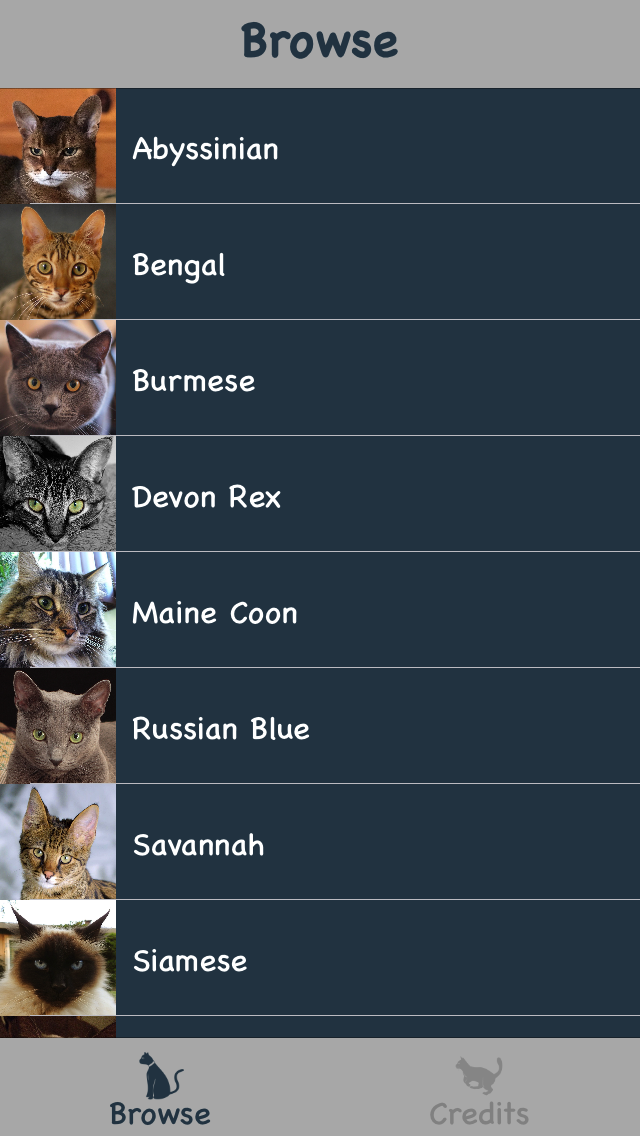
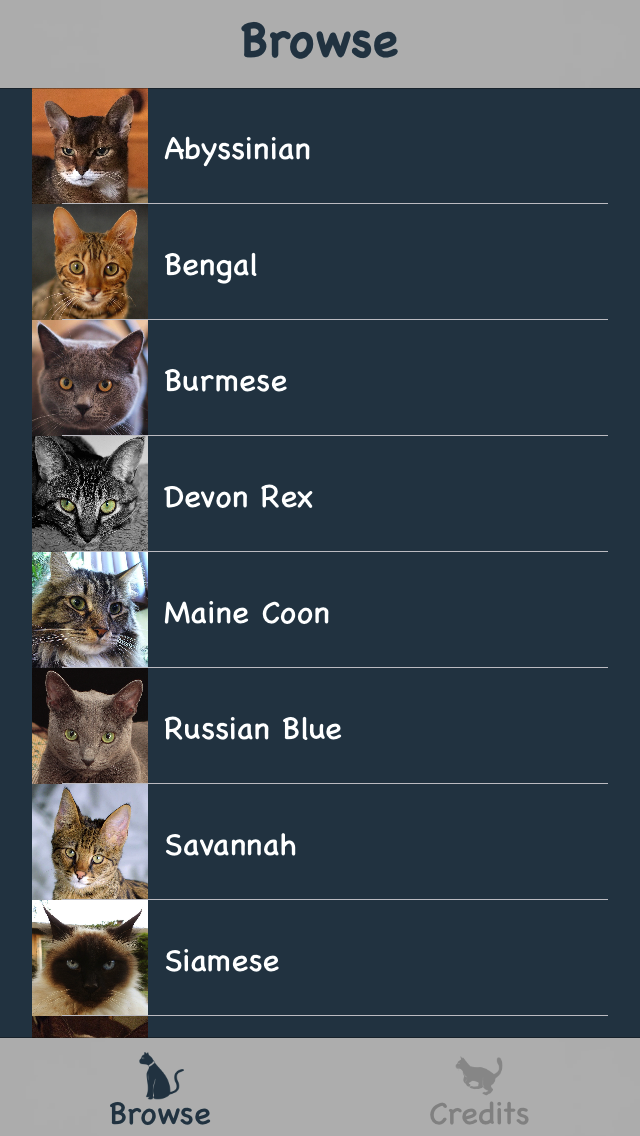
continue tutorial

Changed region(s): [[0.0, 0.0616, 0.5312, 0.9243], [0.4062, 0.3081, 0.4375, 0.3697]]

diff --git a/README.md b/README.md
@@ -28,7 +28,7 @@ Proponents of PL cite, _inter alia_, the following disadvantages of IB:
 
 ![Warnings](images/warnings.jpg "Warnings Caused by XIB-Format Change")
 
-* Because the IB file format is not backwards-compatible, old storyboards and XIBs cannot even be opened in newer versions of Xcode, a situation decried [here](http://www.lapcatsoftware.com/articles/working-without-a-nib-part-11.html). UIs created in IB are, in that sense, ticking time-bombs. As Swift evolves, old PL code may not compile, but it can always be opened in Xcode and grokked by the developer.
+* Because the IB file format is not backwards-compatible, old storyboards and XIBs cannot even be opened in newer versions of Xcode, a situation described [here](http://www.lapcatsoftware.com/articles/working-without-a-nib-part-11.html). UIs created in IB are, in that sense, ticking time-bombs. As Swift evolves, old PL code may not compile, but it can always be opened in Xcode and grokked by the developer.
 * IB hides implementation details from the iOS-development-learner. For example, an IB learner learning about tab bars might learn to click a view controller in the storyboard and click Editor -> Embed In -> Tab Bar Controller. The learner might not realize that a `UITabBarController` gets instantiated at runtime. A PL learner learning about tab bars can't avoid instantiating `UITabBarController` explicitly. The PL approach therefore fosters deeper understanding of UIKit.
 * By requiring the developer to set, by hand, the value of every color, font, padding, and constraint constant, the IB approach
 violates the [DRY](http://deviq.com/don-t-repeat-yourself/) principle. Global changes to colors, fonts, paddings, and constraint constants are tedious and error-prone. With the PL approach, these values are set once in code and are easy to change globally.
@@ -236,13 +236,14 @@ class BreedBrowseView: UIView {
   // 3
   override init(frame: CGRect) {
     super.init(frame: frame)
+    backgroundColor = Colors.blackish
     // 4
     addSubview(table)
     // 5
-    table.topAnchor.constraint(equalTo: safeAreaLayoutGuide.topAnchor).isActive = true
-    table.leadingAnchor.constraint(equalTo: leadingAnchor).isActive = true
-    table.trailingAnchor.constraint(equalTo: trailingAnchor).isActive = true
-    table.bottomAnchor.constraint(equalTo: safeAreaLayoutGuide.bottomAnchor).isActive = true
+    table.topAnchor.constraint(equalTo: safeAreaLayoutGuide.topAnchor).activate()
+    table.leadingAnchor.constraint(equalTo: layoutMarginsGuide.leadingAnchor).activate()
+    table.trailingAnchor.constraint(equalTo: layoutMarginsGuide.trailingAnchor).activate()
+    table.bottomAnchor.constraint(equalTo: safeAreaLayoutGuide.bottomAnchor).activate()
   }
 
   // 6
@@ -284,7 +285,7 @@ All `UIView`s, including the containing view, have top, bottom, leading, trailin
 
 The containing view's anchors, for example `.leadingAnchor` and `.centerYAnchor`, can be accessed directly. Views have two additional properties, [layoutMarginsGuide](https://developer.apple.com/documentation/uikit/uiview/1622651-layoutmarginsguide) and [safeAreaLayoutGuide](https://developer.apple.com/documentation/uikit/uiview/2891102-safearealayoutguide). `layoutMarginsGuide` is a "layout guide representing the view’s margins". Because content can be inside the margins but hidden behind a `UITabBar` or `UINavigationBar`, this property does not entirely encompass the concept of the space where user-visible controls should go. Pinning the top- and bottom-most controls to the `safeAreaLayoutGuide`, which does not include the hidden area, prevents controls from being hidden by `UINavigationBar`s or `UITabBar`s.
 
-In the code you pasted, the goal is for the content, the cat table, to extend to the left and right edges of the screen, so the code uses `leadingAnchor` and `trailingAnchor` rather than `layoutMarginsGuide.leadingAnchor` and `layoutMarginsGuide.trailingAnchor`. The cat table should _not_ be hidden behind a `UINavigationBar` or `UITabBar`, however, so the code pins the top and bottom of the cat table to `safeAreaLayoutGuide.topAnchor` and `safeAreaLayoutGuide.bottomAnchor`, respectively.
+In the code you pasted, the goal is for the content, the cat table, to extend to the left and right margins, so the code uses `layoutMarginsGuide.leadingAnchor` and `layoutMarginsGuide.trailingAnchor`. The cat table should _not_ be hidden behind a `UINavigationBar` or `UITabBar`, however, so the code pins the top and bottom of the cat table to `safeAreaLayoutGuide.topAnchor` and `safeAreaLayoutGuide.bottomAnchor`, respectively.
 
 // 6: This code could go in `BreedBrowseVC`, but bundling it here is tidier.
 
@@ -335,8 +336,8 @@ override init(frame: CGRect) {
   super.init(frame: frame)
   addSubview(table)
   table.topAnchor.constraint(equalTo: safeAreaLayoutGuide.topAnchor).activate()
-  table.leadingAnchor.constraint(equalTo: leadingAnchor).activate()
-  table.trailingAnchor.constraint(equalTo: trailingAnchor).activate()
+  table.leadingAnchor.constraint(equalTo: layoutMarginsGuide.leadingAnchor).activate()
+  table.trailingAnchor.constraint(equalTo: layoutMarginsGuide.trailingAnchor).activate()
   table.bottomAnchor.constraint(equalTo: safeAreaLayoutGuide.bottomAnchor).activate()
 }
 ```
@@ -406,12 +407,13 @@ class BreedCell: UITableViewCell {
   private var name: UILabel = {
     let name = UILabel()
     name.textColor = Colors.white
+    // 0
     name.font = Fonts.body
     name.enableAutoLayout()
     return name
   } ()
 
-  // 0
+  // 1
   internal static let thumbnailHeightWidth: CGFloat = 58.0
 
   required init?(coder aDecoder: NSCoder) {
@@ -423,7 +425,7 @@ class BreedCell: UITableViewCell {
     backgroundColor = Colors.blackish
     addSubview(photo)
     addSubview(name)
-    // 1
+    // 2
     photo.centerYAnchor.constraint(equalTo: centerYAnchor).activate()
     photo.leadingAnchor.constraint(equalTo: leadingAnchor).activate()
     photo.heightAnchor.constraint(equalToConstant: BreedCell.thumbnailHeightWidth).activate()
@@ -441,9 +443,11 @@ class BreedCell: UITableViewCell {
 
 The structure of this code should be familiar from `BreedBrowseView`, but here are some comments:
 
-// 0: In the IB version of this app, the height of the cat thumbnail, the width of that thumbnail, and the height of each row were identical but repeated twice, violating DRY. Defining this value once here promotes DRY.
+// 0: One step in the conversion of an app from IB to to PL is to inventory the fonts used in the app and centralize them in one file. As with colors, in a production app, these fonts, and their names, might be specified in a style guide from a designer. The Author has done the hard work of identifying the fonts for you. They are in the file `Fonts.swift`, and he uses one of them for `BreedCell.name`.
 
-// 1: This Auto Layout code demonstrates three new constraints: `height`, `width`, and `centerYAnchor`. The Author hopes you agree that use of this API is self-documenting.
+// 1: In the IB version of this app, the height of the cat thumbnail, the width of that thumbnail, and the height of each row were identical but repeated twice, violating DRY. Defining this value once here promotes DRY.
+
+// 2: This Auto Layout code demonstrates three new constraints: `height`, `width`, and `centerYAnchor`. The Author hopes you agree that use of this API is self-documenting.
 
 16\. The table's rows currently have a default height, not the appropriate height based on the height of the cat thumbnails. To fix this, add the following implementation to the definition of `BreedBrowseVC` in `BreedBrowseVC.swift`:
 
@@ -534,7 +538,7 @@ Build and run. Click a row in the cat table. The app transitions to an empty scr
 
 ![Empty Breed Screen](images/emptyBreed.png "Empty Breed Screen")
 
-21\. You may notice that the transition to the `BreedDetailVC` is choppy. The author is unsure why this happens, but he saw the same thing when [developing](https://github.com/vermont42/Conjugar) [Conjugar](https://itunes.apple.com/us/app/conjugar/id1236500467). The fix is to add, to the definition of `BreedBrowseVC` in `BreedBrowseVC.swift`, the following function:
+21\. You may notice that the transition to `BreedDetailVC` is choppy. The author is unsure why this happens, but he saw the same thing when [developing](https://github.com/vermont42/Conjugar) [Conjugar](https://itunes.apple.com/us/app/conjugar/id1236500467). The fix is to add, to the definition of `BreedBrowseVC` in `BreedBrowseVC.swift`, the following function:
 
 ```
 override func viewWillAppear(_ animated: Bool) {
@@ -549,9 +553,276 @@ In the function `tableView(_ tableView: UITableView, didSelectRowAt indexPath: I
 breedBrowseView.isHidden = true
 ```
 
-This fixes the choppiness. If you have a better solution for this, please contact the Author.
-### TODO
+This fixes the choppiness. The author would welcome a less-hacky solution.
 
-Remove extraneous `import Foundation`s from starter project.
+22\. Time for some breed info. In `BreedDetailView.swift`, replace the definition of `BreedDetailView` with the following:
 
-Rename starter app (but not repo) CatBreeds.
+```
+class BreedDetailView: UIView {
+  internal var photo: UIImageView = {
+    let photo = UIImageView()
+    photo.contentMode = .scaleAspectFit
+    photo.enableAutoLayout()
+    return photo
+  } ()
+
+  internal var fullDescription: UITextView = {
+    let fullDescription = UITextView()
+    fullDescription.textColor = Colors.white
+    fullDescription.backgroundColor = Colors.blackish
+    fullDescription.font = Fonts.body
+    fullDescription.bounces = false
+    fullDescription.enableAutoLayout()
+    return fullDescription
+  } ()
+
+  // 0
+  internal static let initialPhotoHeightWidth: CGFloat = 180.0
+  private var photoHeight: NSLayoutConstraint?
+  private var photoWidth: NSLayoutConstraint?
+
+  required init(coder aDecoder: NSCoder) {
+    fatalError("init(coder:) has not been implemented.")
+  }
+
+  override init(frame: CGRect) {
+    super.init(frame: frame)
+    backgroundColor = Colors.blackish
+    addSubview(photo)
+    addSubview(fullDescription)
+    photo.topAnchor.constraint(equalTo: safeAreaLayoutGuide.topAnchor).activate()
+    photo.centerXAnchor.constraint(equalTo: centerXAnchor).activate()
+    // 1
+    photoHeight = photo.heightAnchor.constraint(equalToConstant: BreedDetailView.initialPhotoHeightWidth)
+    photoHeight?.activate()
+    photoWidth = photo.widthAnchor.constraint(equalToConstant: BreedDetailView.initialPhotoHeightWidth)
+    photoWidth?.activate()
+    fullDescription.topAnchor.constraint(equalTo: photo.bottomAnchor, constant: Padding.standard).activate()
+    fullDescription.bottomAnchor.constraint(equalTo: safeAreaLayoutGuide.bottomAnchor).activate()
+    fullDescription.leadingAnchor.constraint(equalTo: layoutMarginsGuide.leadingAnchor).activate()
+    fullDescription.trailingAnchor.constraint(equalTo: layoutMarginsGuide.trailingAnchor).activate()
+  }
+
+  // 2
+  internal func updatePhotoSize(heightWidth: CGFloat) {
+    photoWidth?.constant = heightWidth
+    photoHeight?.constant = heightWidth
+  }
+
+  // 3
+  internal func hide() {
+    photo.isHidden = true
+    fullDescription.isHidden = true
+  }
+
+  internal func unhide() {
+    photo.isHidden = false
+    fullDescription.isHidden = false
+  }
+}
+```
+
+This code is similar to that of `BreedBrowseView` with the exceptions discussed here.
+
+// 0: The `height` and `width` constraints are unusual in that they vary based on the `y` position of the `UITextView`. Because these constraints vary, they are given persistent names and an initial value here. The initial value, `initialPhotoHeightWidth`, is `internal` because `BreedDetailVC` needs to access it to tell `BreedView` what value to change it to.
+
+// 1: These four lines differ from the setup of most `NSLayoutAnchor` constraints because the two constraints, photo height and width, can vary and are therefore named.
+
+// 2: This is a convenience function for `BreedDetailVC` to call when the user scrolls. This function allows the two constraints to be `private` to `BreedDetailView`. If not for this function, those two constraints would need to be `internal`.
+
+// 3: `hide()` and `unhide()` are necessitated by the strange fact that `fullDescription` starts at a nonzero vertical offset. `BreedDetailVC` sets the initial vertical offset to `0`, using `hide()` and `unhide()` to shield the user from flickering. On a meta note, this sort of hackery is another example of the challenges that the PL approach can present.
+
+23\. In `BreedDetailVC.swift`, replace the definition of `BreedDetailVC` with the following.
+
+```
+class BreedDetailVC: UIViewController, UITextViewDelegate {
+  private var breed: Breed!
+
+  var breedDetailView: BreedDetailView {
+    return view as! BreedDetailView
+  }
+
+  override func loadView() {
+    title = breed.name
+    let breedDetailView = BreedDetailView(frame: UIScreen.main.bounds)
+    breedDetailView.fullDescription.text = breed.fullDescription
+    breedDetailView.fullDescription.delegate = self
+    breedDetailView.photo.image = breed.photo
+    view = breedDetailView
+  }
+
+  override func viewWillAppear(_ animated: Bool) {
+    super.viewWillAppear(animated)
+    breedDetailView.hide()
+  }
+
+  override func viewDidAppear(_ animated: Bool) {
+    super.viewDidAppear(animated)
+    breedDetailView.fullDescription.setContentOffset(.zero, animated: false)
+    breedDetailView.unhide()
+  }
+
+  class func getViewController(breed: Breed) -> BreedDetailVC {
+    let breedDetailVC = BreedDetailVC()
+    breedDetailVC.breed = breed
+    return breedDetailVC
+  }
+
+  func scrollViewDidScroll(_ scrollView: UIScrollView) {
+    let y = breedDetailView.fullDescription.contentOffset.y
+    if y < BreedDetailView.initialPhotoHeightWidth {
+      breedDetailView.updatePhotoSize(heightWidth: BreedDetailView.initialPhotoHeightWidth - y)
+    } else {
+      breedDetailView.updatePhotoSize(heightWidth: 0.0)
+    }
+  }
+}
+```
+
+The implementation of `BreedDetailVC` is similar to that of `BreedBrowseVC`, but see Part 23, Comment 3 for a discussion of the hackery involving `hide()`, `unhide()`, and `setContentOffset()`.
+
+Build _and_ run. You now have a working breed-details screen.
+
+![Tonkinese](images/breedDetail.png "Details on the Tonkinese Breed")
+
+24\. Time to convert the credits screen. In `CreditsView.swift`, replace the definition of `CreditsView` with the following:
+
+```
+class CreditsView: UIView {
+  internal var credits: UITextView = {
+    let credits = UITextView()
+    credits.textColor = Colors.white
+    credits.backgroundColor = Colors.blackish
+    credits.font = Fonts.body
+    credits.enableAutoLayout()
+    // 0
+    credits.isEditable = false
+    return credits
+  } ()
+
+  // 1
+  internal let meow1: UIButton = {
+    let meow1 = UIButton()
+    meow1.setTitle("Meow 1", for: .normal)
+    meow1.titleLabel?.font = Fonts.button
+    meow1.setTitleColor(Colors.greenish, for: .normal)
+    meow1.enableAutoLayout()
+    return meow1
+  } ()
+
+  internal let meow2: UIButton = {
+    let meow2 = UIButton()
+    meow2.setTitle("Meow 2", for: .normal)
+    meow2.titleLabel?.font = Fonts.button
+    meow2.setTitleColor(Colors.greenish, for: .normal)
+    meow2.enableAutoLayout()
+    return meow2
+  } ()
+
+  required init(coder aDecoder: NSCoder) {
+    fatalError("init(coder:) has not been implemented.")
+  }
+
+  override init(frame: CGRect) {
+    super.init(frame: frame)
+    backgroundColor = Colors.blackish
+    // 2
+    [credits, meow1, meow2].forEach {
+      addSubview($0)
+    }
+    credits.topAnchor.constraint(equalTo: safeAreaLayoutGuide.topAnchor, constant: Padding.standard).activate()
+    // 3
+    credits.bottomAnchor.constraint(equalTo: meow1.topAnchor, constant: Padding.standard * -1.0).activate()
+    credits.bottomAnchor.constraint(equalTo: meow2.topAnchor, constant: Padding.standard * -1.0).activate()
+    credits.leadingAnchor.constraint(equalTo: layoutMarginsGuide.leadingAnchor).activate()
+    credits.trailingAnchor.constraint(equalTo: layoutMarginsGuide.trailingAnchor).activate()
+
+    meow1.bottomAnchor.constraint(equalTo: safeAreaLayoutGuide.bottomAnchor, constant: Padding.standard * -1.0).activate()
+    meow1.leadingAnchor.constraint(equalTo: layoutMarginsGuide.leadingAnchor).activate()
+
+    meow2.bottomAnchor.constraint(equalTo: safeAreaLayoutGuide.bottomAnchor, constant: Padding.standard * -1.0).activate()
+    meow2.trailingAnchor.constraint(equalTo: layoutMarginsGuide.trailingAnchor).activate()
+  }
+}
+```
+
+The implementation of `CreditsView` is similar to that of `BreedBrowseView`, discussed in Step 11, but here are some comments about peculiarities of this implementation.
+
+// 0: `UITextView`s default to editable, which is inappropriate for this app. The user shouldn't be able to edit the credits. Also, if the `UITextView` is editable, URLs can't be clicked. You'll notice that `Editable` is unchecked in the storyboard, so this line replicates that. On a meta note, a big part of converting a UI from IB to PL is ensuring that non-default values in the storyboard, such as `editable`, are preserved in the code.
+
+// 1: This definition and the one after it are for the two meow buttons. You might notice that there is a lot of code duplicated between the two definitions. Depending on your use case, it might make sense to factor out code that is shared among controls. Here is an example of that from [Conjugar](https://github.com/vermont42/Conjugar):
+
+![Conjugar](images/Conjugar.png "Conjugation of Oír in Conjugar")
+
+There are nine `UILabel`s near the top of the screen that are identical except for their content. Rather than repeating the setup of each `UILabel`, the Author [factored out](https://github.com/vermont42/Conjugar/blob/master/Conjugar/VerbView.swift) shared setup. This shared code could at the top of `init()`, as in Conjugar, or in a separate function.
+
+// 2: Here is an example of using `forEach` to avoid code duplication.
+
+// 3: The `constant` parameter of `NSLayoutAnchor.constraint()` sometimes has negative semantics. That is, a positive value results in the opposite padding of what the developer expects. In this situation, the developer must multiply the padding by `-1.0`, as here, to get the desired behavior.
+
+25\. In order to use this new `CreditsView`, replace the implementation of `CreditsVC` in `CreditsVC.swift` with the following:
+
+```
+class CreditsVC: UIViewController, UITextViewDelegate {
+  var creditsView: CreditsView {
+    return view as! CreditsView
+  }
+
+  override func loadView() {
+    let creditsView = CreditsView(frame: UIScreen.main.bounds)
+    creditsView.credits.attributedText = Credits.credits.infoString
+    creditsView.credits.delegate = self
+    // 0
+    creditsView.meow1.addTarget(self, action: #selector(meow1), for: .touchUpInside)
+    creditsView.meow2.addTarget(self, action: #selector(meow2), for: .touchUpInside)
+    view = creditsView
+  }
+
+  // 1
+  @objc func meow1(sender: UIButton!) {
+    SoundManager.play(.meow1)
+  }
+
+  @objc func meow2(sender: UIButton!) {
+    SoundManager.play(.meow2)
+  }
+
+  func textView(_ textView: UITextView, shouldInteractWith URL: URL, in characterRange: NSRange) -> Bool {
+    let http = "http"
+    if URL.absoluteString.prefix(http.count) == http {
+      return true
+    }
+    else {
+      return false
+    }
+  }
+}
+```
+
+The final implementation of this `UIViewController` subclass is similar to those of others you have seen, with a wrinkle.
+
+// 0: As you have experienced in IB-based development, the way to implement a `UIButton` tap using the IB approach is to control-drag from the `UIButton` in the storyboard to the `UIViewController` implementation. This code shows the PL approach: add targets in code to the `UIButton`s and provide implementations for the selectors you specify. The approach is similar for other controls like `UISegmentedControl`. Here is an example from [Conjugar](https://github.com/vermont42/Conjugar/blob/master/Conjugar/BrowseVerbsVC.swift):
+
+```
+override func loadView() {
+  ...
+  browseVerbsView.filterControl.addTarget(self, action: #selector(BrowseVerbsVC.valueChanged(_:)), for: .valueChanged)
+  ...
+}
+```
+
+// 1: This is an implementation of a selector that should fire when a `UIButton` is tapped. The `@objc` keyword is required to expose the implementation to the Objective-C runtime.
+
+On an illustrative note, here is the implementation of a selector for a `UISegmentedControl` in [Conjugar](https://github.com/vermont42/Conjugar/blob/master/Conjugar/BrowseVerbsVC.swift):
+
+```
+@objc func valueChanged(_ sender: UISegmentedControl) {
+  browseVerbsView.reloadTableData()
+}
+```
+
+26\. Conversion is complete! For the sake of [簡素](https://theendlessfurther.com/tag/kanso/), delete `Main.storyboard` and commented-out IB-dependent code. A fully converted version of the app is available [here]().
+
+### Closing Thoughts
+
+The Author encourages you to use the learnings in this tutorial to start converting your app from IB to PL, if appropriate. If conversion is your plan, he recommends that you investigate the Auto Layout options described in the Paul Hudson [article](https://www.hackingwithswift.com/articles/9/best-alternatives-to-auto-layout). Although the Author does not take addition of a third-party dependency [lightly](https://github.com/vermont42/RaceRunner/blob/master/Podfile),  [SnapKit](https://github.com/SnapKit/SnapKit), for example, provides such a clean API that it is worth considering as an alternative to raw `NSLayoutAnchor`.
